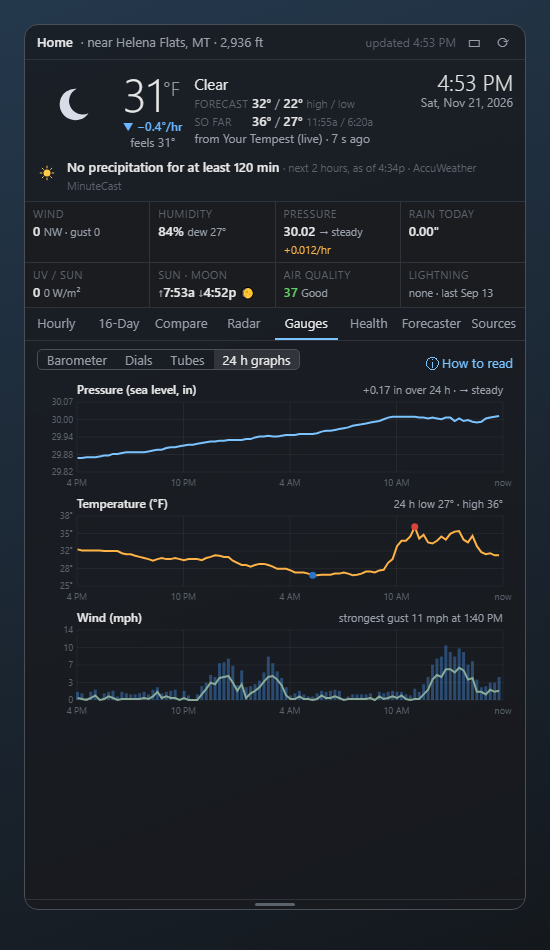
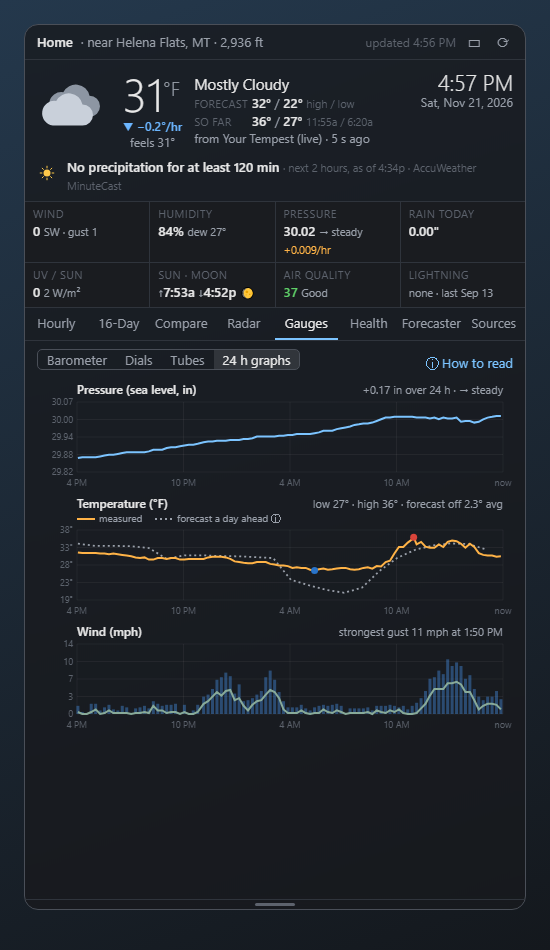
24 h graphs: dotted 'forecast a day ahead' line vs measured temperature
- Saves the panel's own hourly forecast ~1 day ahead (data/verify);
  Open-Meteo previous runs fill in until a day is saved
- Legend, average miss in the summary, forecast in the hover text
- Temperature history keeps the true 24 h high and low
- How to read and README updated

diff --git a/panel.html b/panel.html
@@ -805,20 +805,31 @@ function mercuryTubes(n, g) {
 function trendGraphs(n, g) {
   const W = Math.max(320, innerW()), now = Date.now() / 1000, t0 = now - 24 * 3600;
   const chart = (title, rows, series, opts) => {
-    const h = 110, L = 40, Rr = 10, T = 22, B = 18, ih = h - T - B, iw = W - L - Rr;
     const pts = rows.filter(r => r[0] >= t0);
     if (pts.length < 2) return `<div class="gcap">${title}: not enough history yet</div>`;
-    const vals = pts.flatMap(r => series.map(sr => r[sr.i])).filter(v => v != null);
+    const ov = (opts.overlay?.rows || []).filter(r => r[0] >= t0 - 1800);   // dotted comparison line
+    const leg = opts.overlay && ov.length > 1;                               // legend gets its own line
+    const h = leg ? 124 : 110, L = 40, Rr = 10, T = leg ? 36 : 22, B = 18, ih = h - T - B, iw = W - L - Rr;
+    const vals = pts.flatMap(r => series.map(sr => r[sr.i])).concat(ov.map(r => r[1])).filter(v => v != null);
     let lo = Math.min(...vals), hi = Math.max(...vals);
     if (opts.zero) lo = 0;
     const pad = Math.max((hi - lo) * .12, opts.minSpan / 2); lo -= opts.zero ? 0 : pad; hi += pad;
     const X = t => L + (t - t0) / (now - t0) * iw, Y = v => T + ih - (v - lo) / (hi - lo) * ih;
-    let s = `<text x="${L}" y="14" style="fill:var(--text);font:600 12px 'Segoe UI'">${title}</text>
+    let s = `<text x="${L}" y="14" style="fill:var(--text);font:600 12px 'Segoe UI'">${title}</text>` +
+      (leg ? `<g style="cursor:help"><title>${esc(opts.overlay.tip)}</title>
+          <line x1="${L}" x2="${L + 18}" y1="25" y2="25" style="stroke:${series[0].c}" stroke-width="2"/>
+          <text x="${L + 22}" y="28" style="fill:var(--dim);font-size:10px">measured</text>
+          <line x1="${L + 78}" x2="${L + 96}" y1="25" y2="25" style="stroke:${opts.overlay.c}" stroke-width="1.8" stroke-dasharray="2 3"/>
+          <text x="${L + 100}" y="28" style="fill:var(--dim);font-size:10px">${opts.overlay.label} ⓘ</text></g>` : "") + `
       <text x="${W - Rr}" y="14" text-anchor="end" style="fill:var(--dim);font-size:11px">${opts.summary}</text>`;
     for (let k = 0; k <= 4; k++) { const v = lo + (hi - lo) * k / 4, y = Y(v);
       s += `<line x1="${L}" x2="${W - Rr}" y1="${y}" y2="${y}" style="stroke:var(--cgrid)"/><text x="${L - 4}" y="${y + 3}" text-anchor="end" style="fill:var(--faint);font-size:9px">${opts.fmt(v)}</text>`; }
     for (let hAgo = 24; hAgo >= 0; hAgo -= 6) { const x = X(now - hAgo * 3600);
       s += `<line x1="${x}" x2="${x}" y1="${T}" y2="${T + ih}" style="stroke:var(--cgrid)"/><text x="${x}" y="${h - 4}" text-anchor="middle" style="fill:var(--faint);font-size:9px">${hAgo ? new Date((now - hAgo * 3600) * 1000).toLocaleTimeString("en-US", { hour: "numeric" }) : "now"}</text>`; }
+    if (ov.length > 1) {
+      const xs = r => Math.max(L, Math.min(W - Rr, X(r[0])));
+      s += `<path d="M${ov.map(r => `${xs(r).toFixed(1)} ${Y(r[1]).toFixed(1)}`).join("L")}" fill="none" style="stroke:${opts.overlay.c}" stroke-width="1.8" stroke-dasharray="2 3"/>`;
+    }
     for (const sr of series) {
       const p = pts.filter(r => r[sr.i] != null);
       if (sr.bars) s += p.map(r => `<rect x="${X(r[0]) - 1.5}" y="${Y(r[sr.i])}" width="3" height="${T + ih - Y(r[sr.i])}" style="fill:${sr.c}" opacity=".55"/>`).join("");
@@ -834,12 +845,25 @@ function trendGraphs(n, g) {
   const pc = p.length > 1 ? p[p.length - 1][1] - p[0][1] : null;
   const tmin = t.length ? t.reduce((a, r) => r[1] < a[1] ? r : a) : null, tmax = t.length ? t.reduce((a, r) => r[1] > a[1] ? r : a) : null;
   const gmax = w.length ? w.reduce((a, r) => r[2] > a[2] ? r : a) : null;
+  // forecast made a day ahead vs what the station measured
+  const fc = g?.f_hist || [];
+  const fcAt = e => { let best = null; for (const r of fc) if (Math.abs(r[0] - e) <= 2400 && (!best || Math.abs(r[0] - e) < Math.abs(best[0] - e))) best = r; return best; };
+  const pairs = t.filter(r => r[0] >= now - 24 * 3600).map(r => [r, fcAt(r[0])]).filter(([, f]) => f);
+  const miss = pairs.length ? pairs.reduce((a, [r, f]) => a + Math.abs(f[1] - r[1]), 0) / pairs.length : null;
+  const bias = pairs.length ? pairs.reduce((a, [r, f]) => a + (f[1] - r[1]), 0) / pairs.length : null;
+  const fcBy = [...new Set(fc.map(r => r[2]))].map(b => b === "panel" ? "WeatherDial's own forecast line" : "Open-Meteo's archive of past forecasts").join(" and ");
+  const fcTip = `Dotted line: the temperature forecast for each hour about a day ahead (from ${fcBy || "–"}), ` +
+    `compared with what your station actually measured (solid line).` +
+    (miss != null ? `\nOver the last 24 hours it was off by ${miss.toFixed(1)}° on average` +
+      (Math.abs(bias) >= 0.75 ? `, running ${Math.abs(bias).toFixed(1)}° too ${bias > 0 ? "warm" : "cold"}.` : `, with no lean warm or cold.`) : "");
   return chart("Pressure (sea level, in)", p, [{ i: 1, c: "var(--accent)" }],
       { fmt: v => v.toFixed(2), minSpan: .1, tip: r => `${r[1].toFixed(2)} in`,
         summary: pc != null ? `${pc >= 0 ? "+" : ""}${pc.toFixed(2)} in over 24 h · ${{ rising: "↗ rising", falling: "↘ falling", steady: "→ steady" }[n.trend] || ""}` : "" }) +
     chart("Temperature (°F)", t, [{ i: 1, c: "var(--ctemp)" }],
-      { fmt: v => Math.round(v) + "°", minSpan: 4, tip: r => `${r[1].toFixed(1)}°F`,
-        summary: tmin ? `24 h low ${f0(tmin[1])}° · high ${f0(tmax[1])}°` : "",
+      { fmt: v => Math.round(v) + "°", minSpan: 4,
+        tip: r => { const f = fcAt(r[0]); return `${r[1].toFixed(1)}°F measured` + (f ? `, forecast a day ahead ${f[1].toFixed(1)}°F (${f[1] - r[1] >= 0 ? "+" : ""}${(f[1] - r[1]).toFixed(1)}°)` : ""); },
+        overlay: fc.length ? { rows: fc, c: "var(--cfeels)", label: "forecast a day ahead", tip: fcTip } : null,
+        summary: tmin ? `low ${f0(tmin[1])}° · high ${f0(tmax[1])}°${miss != null ? ` · forecast off ${miss.toFixed(1)}° avg` : ""}` : "",
         marks: tmin ? [{ t: tmin[0], v: tmin[1], c: "#2a74c9", title: `Low ${tmin[1]}°F` }, { t: tmax[0], v: tmax[1], c: "#d9443a", title: `High ${tmax[1]}°F` }] : [] }) +
     chart("Wind (mph)", w, [{ i: 2, c: "var(--crainbar)", bars: true }, { i: 1, c: "var(--cwind)" }],
       { fmt: v => Math.round(v), minSpan: 6, zero: true, tip: r => `wind ${f0(r[1])}, gust ${f0(r[2])} mph`,
@@ -910,7 +934,8 @@ const HELP = () => ({
   graphs: `<h3>Reading the trend graphs</h3><ul>
       <li>Each graph shows the <b>last 24 hours</b> from your station, oldest on the left and <b>now</b> on the right.</li>
       <li><b>Pressure</b> (sea level): the line's slope is what matters. Going up means improving; going down means change on the way. A drop of more than about 0.06 in within 3 hours often comes before a storm or strong wind. The summary on the right gives the 24-hour change.</li>
-      <li><b>Temperature</b>: the <span style="color:#2a74c9">blue</span> dot marks the lowest point and the <span style="color:#d9443a">red</span> dot the highest in the last 24 hours.</li>
+      <li><b>Temperature</b>: the solid line is what your station <b>measured</b>; the <span style="color:#2a74c9">blue</span> dot marks the lowest point and the <span style="color:#d9443a">red</span> dot the highest in the last 24 hours.</li>
+      <li>The <b>dotted line</b> is what was <b>forecast a day ahead</b> for each of those hours (WeatherDial's own forecast line once it has saved a day of them; until then Open-Meteo's archive of past forecasts). Where the dotted line sits above the solid one, the forecast was too warm; below, too cold. The summary at the top right gives the average miss.</li>
       <li><b>Wind</b>: the line is the average wind and the bars are the gusts, the strongest in each 15 minutes.</li></ul>
     <p style="color:var(--dim)">Hover anywhere on a graph for the reading at that time.</p>`,
 });

diff --git a/weather.py b/weather.py
@@ -498,6 +498,46 @@ def record_actuals(new):
     save_if_changed(path, act)
 
 
+# ---- hourly forecast vs actual (the dotted line on the 24 h temperature graph)
+HOURLY_FC = VDIR / "hourly_forecast.json"   # {"YYYY-MM-DDTHH:00": temp the panel forecast ~1 day ahead}
+
+
+def record_hourly_forecast(hourly, now_local):
+    """Remember, for each coming hour, the panel's forecast as it stood about a day ahead
+    (the last value seen while that hour was 20 to 28 hours away)."""
+    arc = load_json(HOURLY_FC, {})
+    for row in hourly:
+        lead = (dt.datetime.fromisoformat(row["t"]) - now_local).total_seconds() / 3600
+        if 20 <= lead <= 28 and row.get("temp") is not None:
+            arc[row["t"]] = row["temp"]
+    cutoff = (now_local - dt.timedelta(days=3)).strftime("%Y-%m-%dT%H:00")
+    save_if_changed(HOURLY_FC, {k: v for k, v in arc.items() if k >= cutoff})
+
+
+def src_past_forecast(cfg, keys, clock):
+    """Open-Meteo's archive of past runs: what was forecast a day earlier for each recent hour.
+    Fills the dotted line until WeatherDial has saved a day of its own forecasts."""
+    d = get(f"https://previous-runs-api.open-meteo.com/v1/forecast?latitude={cfg['lat']}&longitude={cfg['lon']}"
+            "&hourly=temperature_2m_previous_day1&past_days=2&forecast_days=1"
+            "&temperature_unit=fahrenheit&timezone=auto")["hourly"]
+    return {"daily": [], "hourly": [],
+            "past_fc": [[t[:13] + ":00", v] for t, v in zip(d["time"], d["temperature_2m_previous_day1"]) if v is not None]}
+
+
+def past_hourly_forecast(past_src, clock):
+    """[[epoch, temp, made_by]] for the last 26 hours: the panel's own day-ahead forecast where
+    saved, else Open-Meteo's."""
+    own = load_json(HOURLY_FC, {})
+    om = dict(past_src.get("past_fc") or [])
+    now = time.time()
+    out = []
+    for key in sorted(set(own) | set(om)):
+        e = (dt.datetime.fromisoformat(key).replace(tzinfo=UTC) - clock.off).timestamp()
+        if 0 <= now - e <= 26 * 3600:
+            out.append([int(e), own[key], "panel"] if key in own else [int(e), om[key], "Open-Meteo"])
+    return out
+
+
 def src_backfill(cfg, keys, clock):
     """Once in a while: fill the accuracy history for the past `accuracy_backfill_days`
     (default 30): the global models' next-day forecasts from Open-Meteo's archive of past
@@ -984,6 +1024,7 @@ SOURCES = [
     ("models", src_openmeteo_models, None, 60, None),
     ("Air quality", src_air, None, 30, None),
     ("Accuracy history", src_backfill, None, 360, None),
+    ("Past forecasts", src_past_forecast, None, 60, None),
     ("Tempest (live, local)", src_local_station, None, 0, None),
     ("Your Tempest", src_tempest, "tempest_token", 5, "https://tempestwx.com/settings/tokens"),
     ("Weather.com", src_weathercom, "weathercom", 30, "https://www.wunderground.com/member/api-keys"),
@@ -1122,8 +1163,16 @@ def gauge_data(now, tem_extra, today):
     if p_now and p3 is not None:   # trend from the full history (also right after a restart)
         diff = float(p_now) - p3
         now["trend"] = "rising" if diff > .03 else "falling" if diff < -.03 else "steady"
+    # temperature every 15 minutes, but always keep the true highest and lowest readings
+    t_s = sample(th)
+    last24 = [r for r in th if t - r[0] <= 24 * 3600]
+    if last24:
+        for r in (max(last24, key=lambda r: r[1]), min(last24, key=lambda r: r[1])):
+            if [int(r[0]), r[1]] not in t_s:
+                t_s.append([int(r[0]), r[1]])
+        t_s.sort()
     return {"p_hist": sampled, "p_3h": p3, "p_24h": at(24 * 3600),
-            "t_hist": sample(th), "w_hist": w_s, "t_rate_1h": t_rate, "p_rate_1h": p_rate,
+            "t_hist": t_s, "w_hist": w_s, "t_rate_1h": t_rate, "p_rate_1h": p_rate,
             "t_today": day}
 
 
@@ -1312,7 +1361,9 @@ def fetch(force=False):
     if readings:
         track_wind(readings[0], today, now_local, tem.get("extra", {}).get("wind_max"))
 
+    record_hourly_forecast(hourly, now_local)
     gauges = gauge_data(readings[0] if readings else {}, tem.get("extra", {}), today)
+    gauges["f_hist"] = past_hourly_forecast(results.get("Past forecasts") or {}, clock)
 
     # Accuracy: remember every source's forecasts; record finished days' actual high/low.
     record_forecasts(fc_daily, today)

diff --git a/README.md b/README.md
@@ -55,7 +55,9 @@ forecasters' discussion). Elsewhere everything else still works.
     barometer (inches / mb, 24 h and 3 h ago arrows) and a rain gauge (today's rain, with
     yesterday's total as a dashed line).
   - *24 h graphs*: pressure, temperature (low and high marked) and wind (average line, gust
-    bars) for the last 24 hours. Hover for the reading at any time.
+    bars) for the last 24 hours. The temperature graph also has a **dotted line: the forecast
+    made a day ahead** for each hour, with the average miss at the top right. Hover for the
+    reading (and the forecast) at any time.
   - **ⓘ How to read** opens a short guide for the style shown, including what rising and
     falling pressure usually mean. The gauges grow with the panel when you make it bigger.
 - **Health** *(AccuWeather indices, optional)*: today and the next 4 days for health
